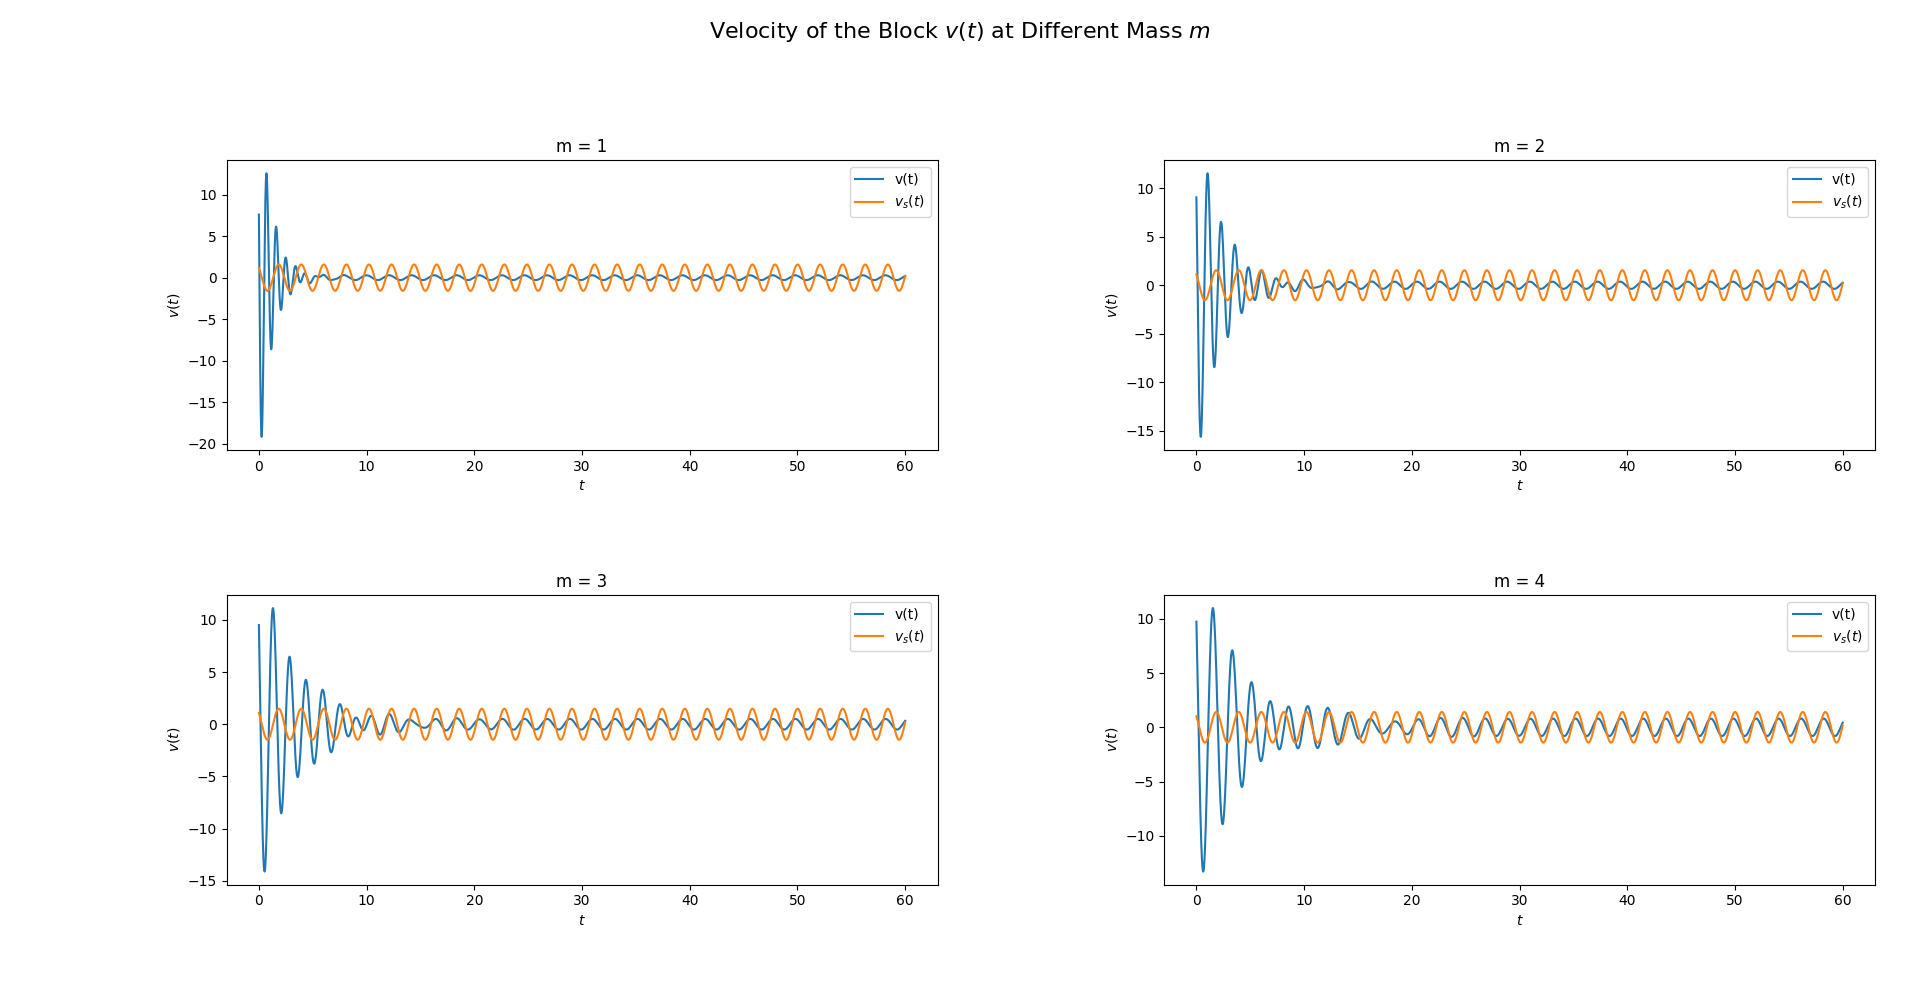
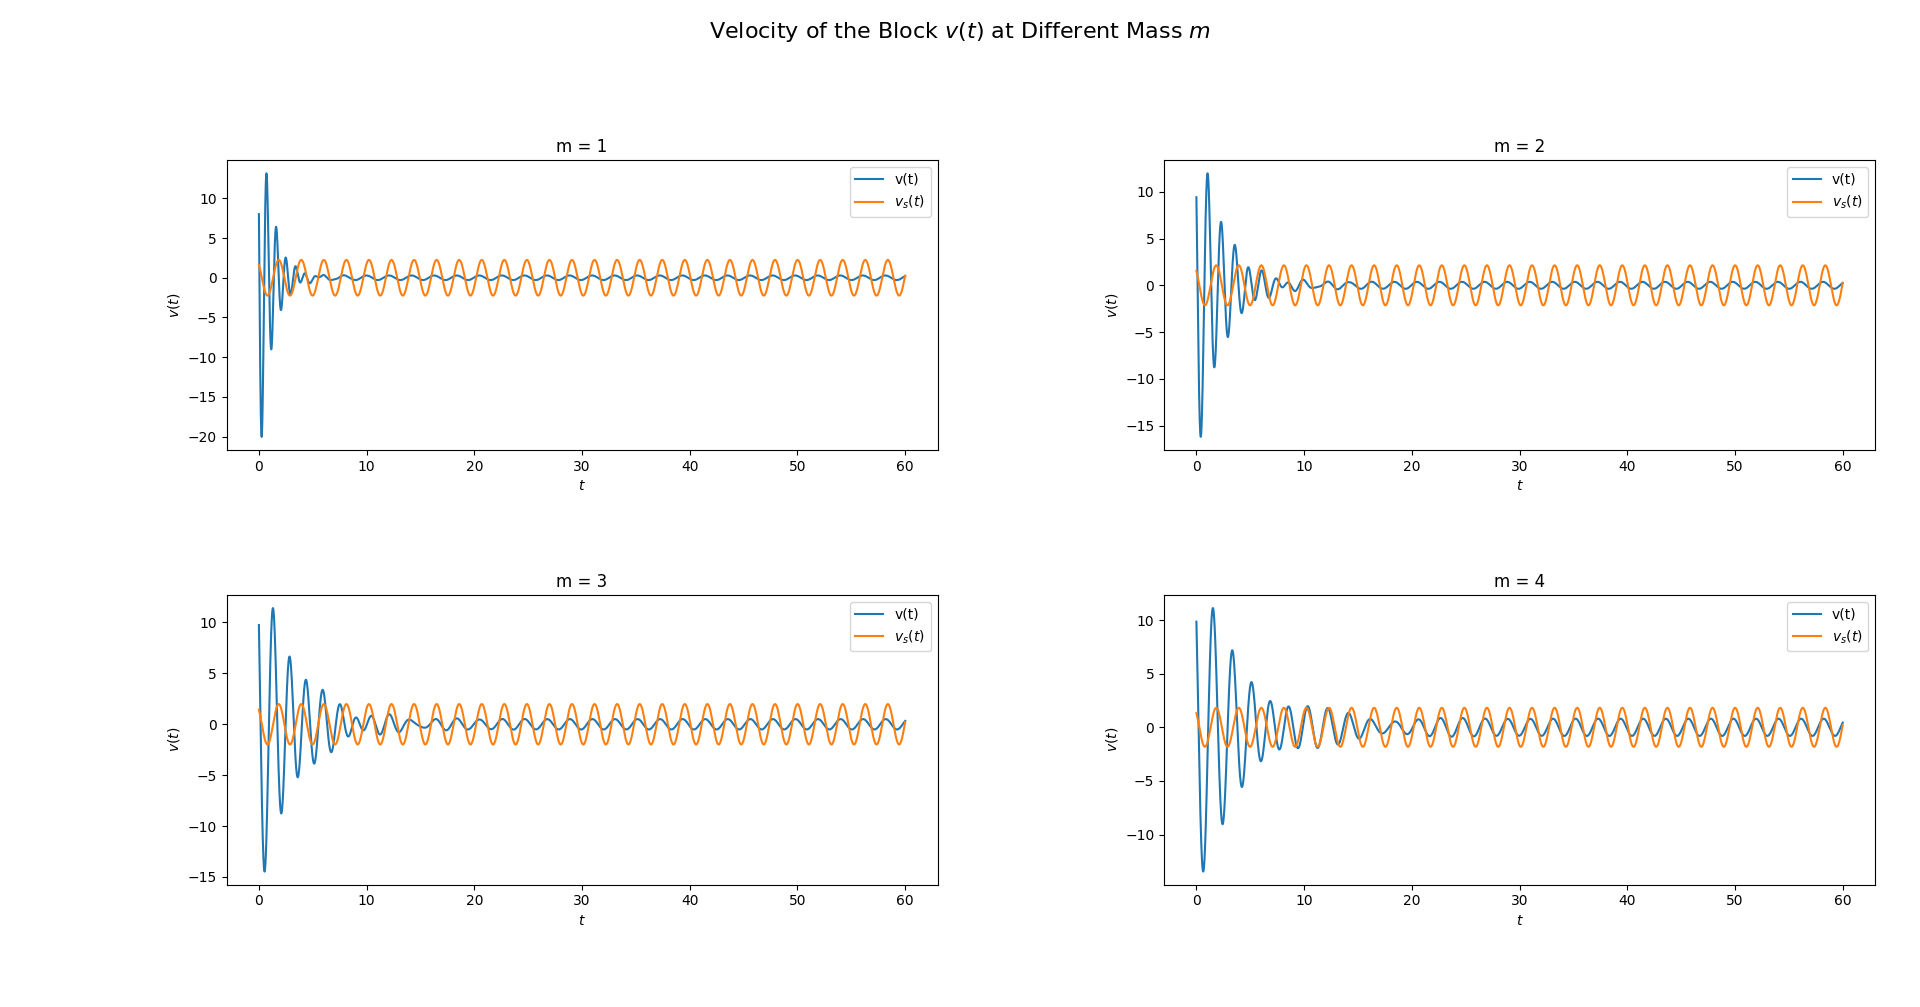
Fixed constants' value in env (main.py)
Fix env's constants value not change back to its original value after for-loop for plotting graphs with varying constants.
Shape of the graph should be the same.

diff --git a/main.py b/main.py
@@ -129,6 +129,23 @@ def solve_ode2(m, c, k, F0, OMEGA_0, OMEGA, PHI, time = np.arange(0, 60, 1e-3)):
     :param time: time interval of type numpy.array()
     :return: tuple : (displacement x, velocity x')
     """
+    # get Environment() class constants
+    # assumed env = Environment() class exists
+    # this function is dedicatedly written for this project
+    _const = env.getConstants()
+    
+    # set constants
+    env.setConstants(
+            m = m,
+            c = c,
+            k = k,
+            F0 = F0,
+            OMEGA_0 = OMEGA_0,
+            OMEGA = OMEGA,
+            phi = PHI
+    )
+    
+    # compute ODE
     x0 = F0 * np.cos(PHI) + x_s()[0]  # initial condition : x(0)
     x_dot0 = -F0 * (c / (2 * m)) * np.cos(PHI) - F0 * np.sqrt(OMEGA ** 2 - (c / 2 / m) ** 2) * np.sin(-PHI) + v_s()[0]  # -F0*OMEGA_0*np.sin(-PHI) / np.sqrt( (m**2)*((OMEGA**2)-(OMEGA_0**2))**2 + (c**2)*(OMEGA_0**2) )  # initial condition : x'(0)
     ode = ODE2(m, c, k, F0, x0, x_dot0, lambda t: np.cos(OMEGA_0 * t))
@@ -136,10 +153,13 @@ def solve_ode2(m, c, k, F0, OMEGA_0, OMEGA, PHI, time = np.arange(0, 60, 1e-3)):
     # numerical result for 2nd order ODE
     x, v = ode(time)
     
+    # replace env constant value to its original
+    env.setConstants(_const)
+    
     return x, v
 
 
-# main
+##### main #####
 for case in ["Under-damping"]:  # dataset.keys():
     data = dataset[case]
     m = data["m"]
@@ -225,9 +245,6 @@ for case in ["Under-damping"]:  # dataset.keys():
         # validate data
         validate_data(case, _c, m, k, OMEGA_0)
         
-        # update constant in environment
-        env.setConstants(c = _c)
-        
         # solve ODE
         _x, _v = solve_ode2(m, _c, k, F0, OMEGA_0, OMEGA, PHI, t)
         
@@ -239,9 +256,6 @@ for case in ["Under-damping"]:  # dataset.keys():
         # solve ODE
         _x, _v = solve_ode2(m, c, _k, F0, OMEGA_0, OMEGA, PHI, t)
         
-        # update constant in environment
-        env.setConstants(k = _k)
-        
         # append to data list
         x_dk.append(_x)
         v_dk.append(_v)
@@ -250,9 +264,6 @@ for case in ["Under-damping"]:  # dataset.keys():
         # solve ODE
         _x, _v = solve_ode2(m, c, k, _F0, OMEGA_0, OMEGA, PHI, t)
         
-        # update constant in environment
-        env.setConstants(F0 = _F0)
-        
         # append to data list
         x_dF0.append(_x)
         v_dF0.append(_v)
@@ -260,9 +271,6 @@ for case in ["Under-damping"]:  # dataset.keys():
     for _OMEGA_0 in dOMEGA_0:
         # validate data
         validate_data(case, c, m, k, _OMEGA_0)
-        
-        # update constant in environment
-        env.setConstants(OMEGA_0 = _OMEGA_0)
         
         # solve ODE
         _x, _v = solve_ode2(m, c, k, F0, _OMEGA_0, OMEGA, PHI, t)
@@ -433,4 +441,4 @@ for case in ["Under-damping"]:  # dataset.keys():
     fig_c.plot(tight_layout = False)
     #######################################
     
-# end of the program
+# end of the program (main.py)
